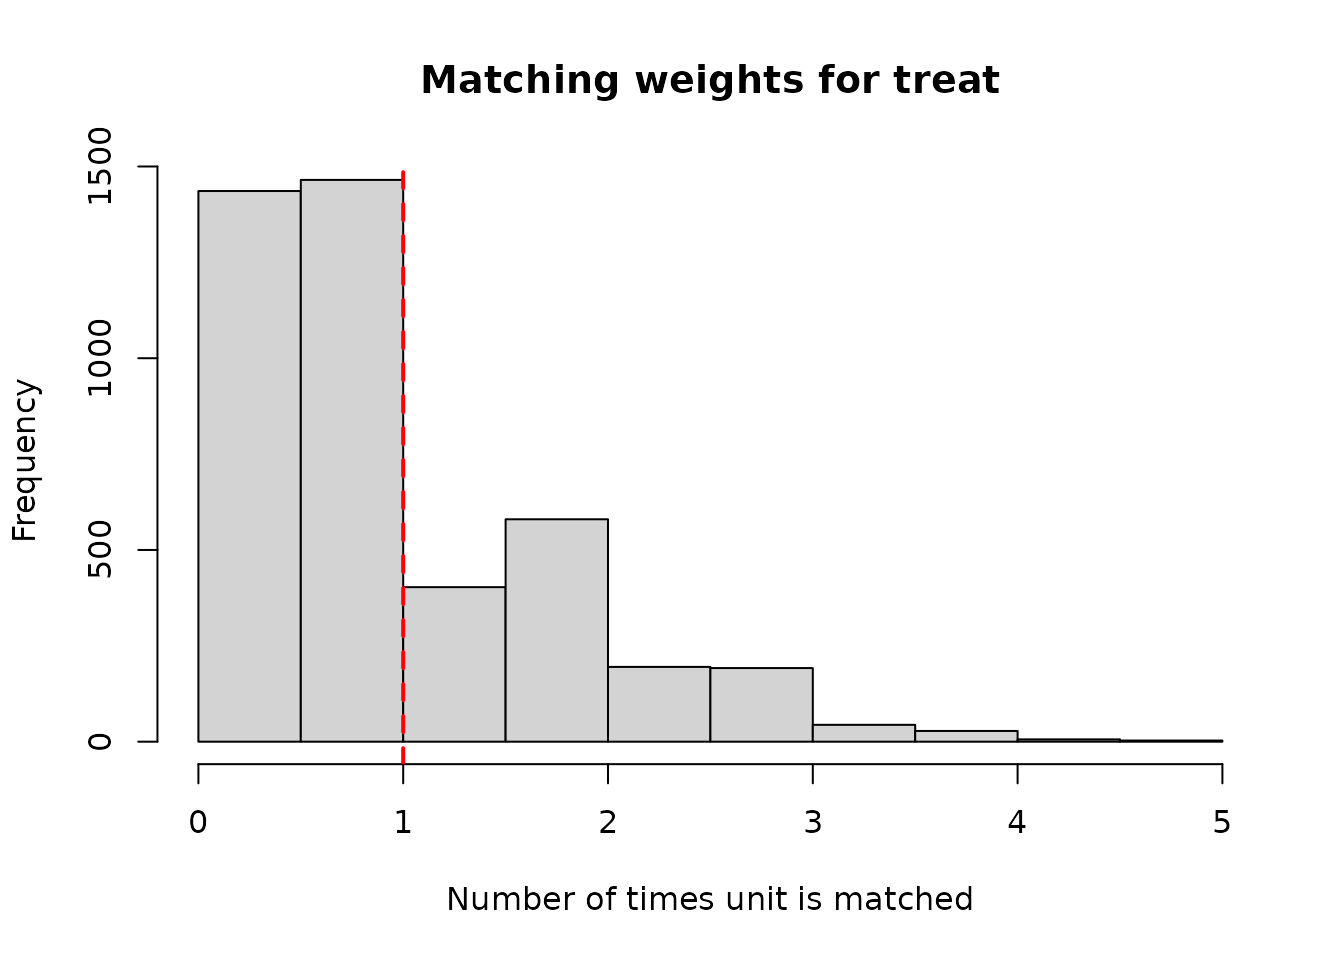
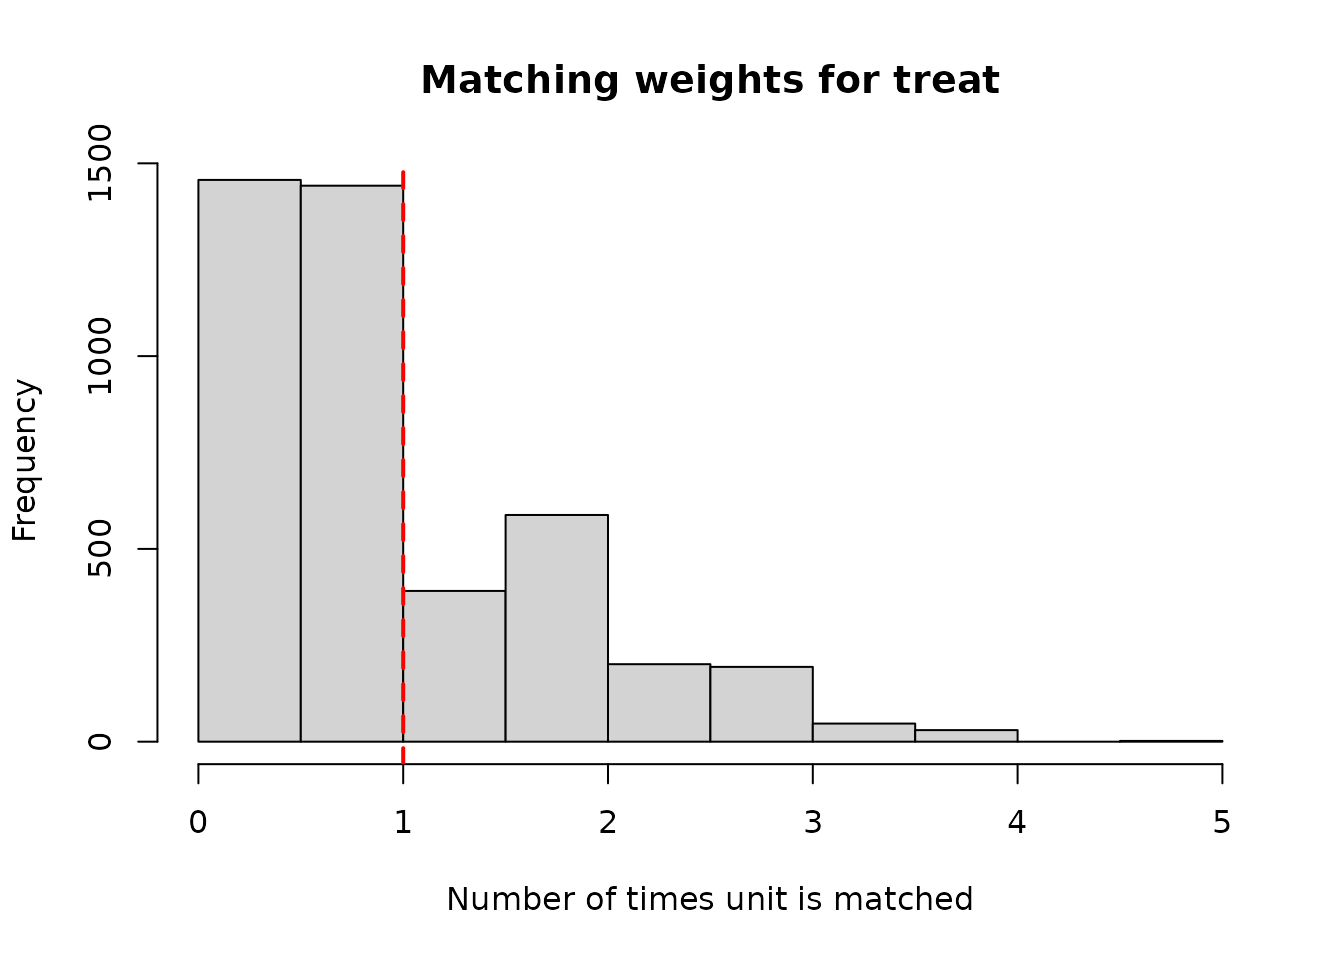
Built site for DirectEffects: 0.2.9000@1afdf37

diff --git a/index.html b/index.html
@@ -5,14 +5,14 @@
 <meta charset="utf-8">
 <meta http-equiv="X-UA-Compatible" content="IE=edge">
 <meta name="viewport" content="width=device-width, initial-scale=1, shrink-to-fit=no">
-<meta name="description" content="A set of functions to estimate the controlled direct effect of treatment fixing a potential mediator to a specific value. Implements the sequential g-estimation estimator described in Vansteelandt (2009) &lt;doi:10.1097/EDE.0b013e3181b6f4c9&gt; and Acharya, Blackwell, and Sen (2016) &lt;doi:10.1017/S0003055416000216&gt; and the telescope matching estimator described in Blackwell and Strezhnev (2020) &lt;doi:10.1111/rssa.12759.  ">
+<meta name="description" content="A set of functions to estimate the controlled direct effect of treatment fixing a potential mediator to a specific value. Implements the sequential g-estimation estimator described in Vansteelandt (2009) &lt;doi:10.1097/EDE.0b013e3181b6f4c9&gt; and Acharya, Blackwell, and Sen (2016) &lt;doi:10.1017/S0003055416000216&gt; and the telescope matching estimator described in Blackwell and Strezhnev (2020) &lt;doi:10.1111/rssa.12759&gt;.  ">
 <title>Estimating Controlled Direct Effects for Explaining Causal Findings • DirectEffects</title>
 <script src="deps/jquery-3.6.0/jquery-3.6.0.min.js"></script><meta name="viewport" content="width=device-width, initial-scale=1, shrink-to-fit=no">
 <link href="deps/bootstrap-5.1.0/bootstrap.min.css" rel="stylesheet">
 <script src="deps/bootstrap-5.1.0/bootstrap.bundle.min.js"></script><!-- Font Awesome icons --><link rel="stylesheet" href="https://cdnjs.cloudflare.com/ajax/libs/font-awesome/5.12.1/css/all.min.css" integrity="sha256-mmgLkCYLUQbXn0B1SRqzHar6dCnv9oZFPEC1g1cwlkk=" crossorigin="anonymous">
 <link rel="stylesheet" href="https://cdnjs.cloudflare.com/ajax/libs/font-awesome/5.12.1/css/v4-shims.min.css" integrity="sha256-wZjR52fzng1pJHwx4aV2AO3yyTOXrcDW7jBpJtTwVxw=" crossorigin="anonymous">
 <!-- bootstrap-toc --><script src="https://cdn.rawgit.com/afeld/bootstrap-toc/v1.0.1/dist/bootstrap-toc.min.js"></script><!-- headroom.js --><script src="https://cdnjs.cloudflare.com/ajax/libs/headroom/0.11.0/headroom.min.js" integrity="sha256-AsUX4SJE1+yuDu5+mAVzJbuYNPHj/WroHuZ8Ir/CkE0=" crossorigin="anonymous"></script><script src="https://cdnjs.cloudflare.com/ajax/libs/headroom/0.11.0/jQuery.headroom.min.js" integrity="sha256-ZX/yNShbjqsohH1k95liqY9Gd8uOiE1S4vZc+9KQ1K4=" crossorigin="anonymous"></script><!-- clipboard.js --><script src="https://cdnjs.cloudflare.com/ajax/libs/clipboard.js/2.0.6/clipboard.min.js" integrity="sha256-inc5kl9MA1hkeYUt+EC3BhlIgyp/2jDIyBLS6k3UxPI=" crossorigin="anonymous"></script><!-- search --><script src="https://cdnjs.cloudflare.com/ajax/libs/fuse.js/6.4.6/fuse.js" integrity="sha512-zv6Ywkjyktsohkbp9bb45V6tEMoWhzFzXis+LrMehmJZZSys19Yxf1dopHx7WzIKxr5tK2dVcYmaCk2uqdjF4A==" crossorigin="anonymous"></script><script src="https://cdnjs.cloudflare.com/ajax/libs/autocomplete.js/0.38.0/autocomplete.jquery.min.js" integrity="sha512-GU9ayf+66Xx2TmpxqJpliWbT5PiGYxpaG8rfnBEk1LL8l1KGkRShhngwdXK1UgqhAzWpZHSiYPc09/NwDQIGyg==" crossorigin="anonymous"></script><script src="https://cdnjs.cloudflare.com/ajax/libs/mark.js/8.11.1/mark.min.js" integrity="sha512-5CYOlHXGh6QpOFA/TeTylKLWfB3ftPsde7AnmhuitiTX4K5SqCLBeKro6sPS8ilsz1Q4NRx3v8Ko2IBiszzdww==" crossorigin="anonymous"></script><!-- pkgdown --><script src="pkgdown.js"></script><meta property="og:title" content="Estimating Controlled Direct Effects for Explaining Causal Findings">
-<meta property="og:description" content="A set of functions to estimate the controlled direct effect of treatment fixing a potential mediator to a specific value. Implements the sequential g-estimation estimator described in Vansteelandt (2009) &lt;doi:10.1097/EDE.0b013e3181b6f4c9&gt; and Acharya, Blackwell, and Sen (2016) &lt;doi:10.1017/S0003055416000216&gt; and the telescope matching estimator described in Blackwell and Strezhnev (2020) &lt;doi:10.1111/rssa.12759.  ">
+<meta property="og:description" content="A set of functions to estimate the controlled direct effect of treatment fixing a potential mediator to a specific value. Implements the sequential g-estimation estimator described in Vansteelandt (2009) &lt;doi:10.1097/EDE.0b013e3181b6f4c9&gt; and Acharya, Blackwell, and Sen (2016) &lt;doi:10.1017/S0003055416000216&gt; and the telescope matching estimator described in Blackwell and Strezhnev (2020) &lt;doi:10.1111/rssa.12759&gt;.  ">
 <!-- mathjax --><script src="https://cdnjs.cloudflare.com/ajax/libs/mathjax/2.7.5/MathJax.js" integrity="sha256-nvJJv9wWKEm88qvoQl9ekL2J+k/RWIsaSScxxlsrv8k=" crossorigin="anonymous"></script><script src="https://cdnjs.cloudflare.com/ajax/libs/mathjax/2.7.5/config/TeX-AMS-MML_HTMLorMML.js" integrity="sha256-84DKXVJXs0/F8OTMzX4UR909+jtl4G7SPypPavF+GfA=" crossorigin="anonymous"></script><!--[if lt IE 9]>
 <script src="https://oss.maxcdn.com/html5shiv/3.7.3/html5shiv.min.js"></script>
 <script src="https://oss.maxcdn.com/respond/1.4.2/respond.min.js"></script>
@@ -66,7 +66,8 @@
   </div>
 </nav><div class="container template-home">
 <div class="row">
-  <main id="main" class="col-md-9"><div class="section level2">
+  <main id="main" class="col-md-9"><p><br></p>
+<div class="section level2">
 <h2 id="overview">Overview<a class="anchor" aria-label="anchor" href="#overview"></a>
 </h2>
 <p><!-- badges: start --> <a href="https://github.com/mattblackwell/DirectEffects/actions" class="external-link"><img src="https://github.com/mattblackwell/DirectEffects/workflows/R-CMD-check/badge.svg" alt="R-CMD-check"></a> <!-- badges: end --></p>
@@ -89,9 +90,9 @@
 <p>The main functions for estimating CDEs in DirectEffects are:</p>
 <ul>
 <li>
-<a href="articles/DirectEffects.html"><code>sequential_g()</code></a>: estimate controlled direct effects using two-stage linear models.</li>
+<a href="https://mattblackwell.github.io/DirectEffects/articles/DirectEffects.html"><code>sequential_g()</code></a>: estimate controlled direct effects using two-stage linear models.</li>
 <li>
-<a href="articles/telescope_matching.html"><code>telescope_match()</code></a>: estimated controlled direct effects using a two-stage matching procedure with bias correction.</li>
+<a href="https://mattblackwell.github.io/DirectEffects/articles/telescope_matching.html"><code>telescope_match()</code></a>: estimated controlled direct effects using a two-stage matching procedure with bias correction.</li>
 </ul>
 <p>DirectEffects also provides diagnostics for these two approaches, including sensitivity analyses and balance checks.</p>
 </div>
@@ -123,7 +124,7 @@
 <div class="developers">
 <h2 data-toc-skip>Developers</h2>
 <ul class="list-unstyled">
-<li>Matthew Blackwell <br><small class="roles"> Author, maintainer </small>  </li>
+<li>Matthew Blackwell <br><small class="roles"> Author, maintainer </small> <a href="https://orcid.org/0000-0002-3689-9527" target="orcid.widget" aria-label="ORCID" class="external-link"><span class="fab fa-orcid orcid" aria-hidden="true"></span></a> </li>
 <li>Avidit Acharya <br><small class="roles"> Author </small>  </li>
 <li>Maya Sen <br><small class="roles"> Author </small>  </li>
 <li>Shiro Kuriwaki <br><small class="roles"> Author </small>  </li>

diff --git a/articles/telescope_matching.html b/articles/telescope_matching.html
@@ -172,49 +172,49 @@ ACDE = E[Y_i(1, 0) - Y_i(0,0)]
 <span class="co">## </span>
 <span class="co">## Matching summary:</span>
 <span class="co">##          Term Matching Ratio L:1 N == 1 N == 0 Matched == 1 Matched == 0</span>
-<span class="co">## 1       treat                  3   2801   1551         2291         1544</span>
-<span class="co">## 2 work2year2q                  3   2559   1793         1358         1522</span>
+<span class="co">## 1       treat                  3   2801   1551         2278         1544</span>
+<span class="co">## 2 work2year2q                  3   2559   1793         1362         1525</span>
 <span class="co">## </span>
 <span class="co">## </span>
 <span class="co">## Summary of units matching contributions:</span>
-<span class="co">##                   Min.   1st Qu.    Median Mean  3rd Qu.       Max.</span>
-<span class="co">## treat                0 0.3333333 0.6666667    1 1.333333   4.666667</span>
-<span class="co">## treat:work2year2q    0 0.0000000 0.3333333    1 1.000000 117.222222</span>
-<span class="co">## work2year2q          0 0.0000000 0.3333333    1 1.333333  75.000000</span>
+<span class="co">##                   Min.   1st Qu.    Median Mean  3rd Qu.      Max.</span>
+<span class="co">## treat                0 0.3333333 0.6666667    1 1.333333   5.00000</span>
+<span class="co">## treat:work2year2q    0 0.0000000 0.3333333    1 1.000000 116.11111</span>
+<span class="co">## work2year2q          0 0.0000000 0.3333333    1 1.333333  68.66667</span>
 <span class="co">## </span>
 <span class="co">## </span>
 <span class="co">## Estimated controlled direct effects of treat:</span>
 <span class="co">##                   work2year2q Estimate Estimate (no BC) Std. Err.</span>
-<span class="co">## (1, 0) vs. (0, 0)           0 -0.09609         -0.08665   0.05321</span>
-<span class="co">## (1, 1) vs. (0, 1)           1  0.03850          0.03848   0.02213</span></code></pre>
+<span class="co">## (1, 0) vs. (0, 0)           0 -0.09181         -0.08318   0.05275</span>
+<span class="co">## (1, 1) vs. (0, 1)           1  0.03105          0.03102   0.02246</span></code></pre>
 <div class="sourceCode" id="cb11"><pre class="downlit sourceCode r">
 <code class="sourceCode R"><span class="co"># The coefficients + SE can be accessed directly as well</span>
 <span class="va">tm_out</span><span class="op">$</span><span class="va">tau</span> <span class="co"># Point estimate</span></code></pre></div>
-<pre><code><span class="co">## [1] -0.09609438  0.03850302</span></code></pre>
+<pre><code><span class="co">## [1] -0.09181338  0.03105208</span></code></pre>
 <div class="sourceCode" id="cb13"><pre class="downlit sourceCode r">
 <code class="sourceCode R"><span class="va">tm_out</span><span class="op">$</span><span class="va">tau_se</span> <span class="co">#Standard error</span></code></pre></div>
-<pre><code><span class="co">## [1] 0.05320912 0.02213413</span></code></pre>
+<pre><code><span class="co">## [1] 0.05275171 0.02246048</span></code></pre>
 <p>Additional diagnostics can be conducted by calling the <code><a href="../reference/balance.tmatch.html">balance.tmatch()</a></code> function on the returned <code>tmatch</code> object to assess the change in pre-/post-matching covariate balance in both the first and second stages.</p>
 <div class="sourceCode" id="cb15"><pre class="downlit sourceCode r">
 <code class="sourceCode R"><span class="co">## Assess mediator balance on selected pre- and post- treatment covariates</span>
 <span class="fu"><a href="../reference/balance.tmatch.html">balance.tmatch</a></span><span class="op">(</span><span class="va">tm_out</span>, vars <span class="op">=</span> <span class="va">work2year2q</span> <span class="op">~</span> <span class="va">schobef</span> <span class="op">+</span> <span class="va">emplq4</span>,
                data <span class="op">=</span> <span class="va">jobcorps_female</span><span class="op">)</span></code></pre></div>
 <pre><code><span class="co">##         variable  before_0  before_1   after_0   after_1 before_sd  before_diff</span>
-<span class="co">## schobef  schobef 0.6352482 0.6287612 0.7049632 0.6314338 0.4824714 -0.006486953</span>
-<span class="co">## emplq4    emplq4 0.1996654 0.7198124 0.4775582 0.5058977 0.5000270  0.520147061</span>
+<span class="co">## schobef  schobef 0.6352482 0.6287612 0.7044271 0.6314338 0.4824714 -0.006486953</span>
+<span class="co">## emplq4    emplq4 0.1996654 0.7198124 0.4776348 0.5057445 0.5000270  0.520147061</span>
 <span class="co">##         before_std_diff  after_diff after_std_diff</span>
-<span class="co">## schobef     -0.01344526 -0.07352941    -0.15240160</span>
-<span class="co">## emplq4       1.04023787  0.02833946     0.05667586</span></code></pre>
+<span class="co">## schobef     -0.01344526 -0.07299326    -0.15129034</span>
+<span class="co">## emplq4       1.04023787  0.02810968     0.05621632</span></code></pre>
 <div class="sourceCode" id="cb17"><pre class="downlit sourceCode r">
 <code class="sourceCode R"><span class="co">## Assess treatment balance on selected pre-treatment covariates</span>
 <span class="fu"><a href="../reference/balance.tmatch.html">balance.tmatch</a></span><span class="op">(</span><span class="va">tm_out</span>, vars <span class="op">=</span> <span class="va">treat</span> <span class="op">~</span> <span class="va">trainyrbef</span> <span class="op">+</span> <span class="va">hhsize</span>,
                data <span class="op">=</span> <span class="va">jobcorps_female</span><span class="op">)</span></code></pre></div>
 <pre><code><span class="co">##              variable   before_0   before_1    after_0    after_1 before_sd</span>
 <span class="co">## trainyrbef trainyrbef 0.01676338 0.01713674 0.01700368 0.01700368 0.1292996</span>
-<span class="co">## hhsize         hhsize 4.54094133 4.53802213 4.53776042 4.54618566 2.2087850</span>
+<span class="co">## hhsize         hhsize 4.54094133 4.53802213 4.54204963 4.53186275 2.2087850</span>
 <span class="co">##              before_diff before_std_diff  after_diff after_std_diff</span>
-<span class="co">## trainyrbef  0.0003733584     0.002887544 0.000000000    0.000000000</span>
-<span class="co">## hhsize     -0.0029191932    -0.001321629 0.008425245    0.003814425</span></code></pre>
+<span class="co">## trainyrbef  0.0003733584     0.002887544  0.00000000    0.000000000</span>
+<span class="co">## hhsize     -0.0029191932    -0.001321629 -0.01018689   -0.004611987</span></code></pre>
 <p>Calling the <code><a href="../reference/plotDiag.tmatch.html">plotDiag.tmatch()</a></code> function will return a histogram of the number of times each unit is used as a match (<span class="math inline">\(K/L\)</span>) in either the first (mediator) stage or the second (treatment) stage.</p>
 <div class="sourceCode" id="cb19"><pre class="downlit sourceCode r">
 <code class="sourceCode R"><span class="co"># Number of times each unit is used as a match in the mediator (first) stage</span>

diff --git a/articles/DirectEffects.html b/articles/DirectEffects.html
@@ -210,14 +210,14 @@
 <span class="co">## Summary of bootstrapped coefficients: </span>
 <span class="co">## </span>
 <span class="co">##                           Estimate Std. Err.   t value     2.5 %  97.5 %</span>
-<span class="co">## (Intercept)               13.03967   4.71055   2.76819   4.66312 23.9332</span>
-<span class="co">## plow                      -5.12705   2.78384  -1.84171 -10.93401 -0.0791</span>
-<span class="co">## agricultural_suitability   4.52477   3.09550   1.46172  -1.73349  9.7554</span>
-<span class="co">## tropical_climate          -2.49692   2.27313  -1.09845  -6.96275  1.8230</span>
-<span class="co">## large_animals             -1.22817   5.00232  -0.24552 -11.92959  7.2430</span>
-<span class="co">## political_hierarchies      0.45004   1.12768   0.39908  -1.50762  2.4844</span>
-<span class="co">## economic_complexity       -0.17763   0.53680  -0.33090  -1.27670  0.8405</span>
-<span class="co">## rugged                    -0.30880   0.50938  -0.60623  -1.29622  0.5855</span></code></pre>
+<span class="co">## (Intercept)               12.68830   4.22683   3.00185   3.36103 19.9804</span>
+<span class="co">## plow                      -4.90288   2.52984  -1.93802 -10.31484 -0.0461</span>
+<span class="co">## agricultural_suitability   4.41084   3.32122   1.32808  -1.88211 10.5896</span>
+<span class="co">## tropical_climate          -2.10549   2.48625  -0.84685  -6.57257  3.0299</span>
+<span class="co">## large_animals             -1.14327   4.69751  -0.24338 -10.01702  7.6973</span>
+<span class="co">## political_hierarchies      0.45407   1.15845   0.39196  -1.54475  2.6155</span>
+<span class="co">## economic_complexity       -0.17131   0.53709  -0.31896  -1.10970  0.9211</span>
+<span class="co">## rugged                    -0.30589   0.51217  -0.59724  -1.33131  0.5541</span></code></pre>
 <p>The coefficient on the treatment variable (here, <code>plow</code>), is the estimate of the ACDE. The results show a negative ACDE of plows—in other words, the effect of the plough is negative for fixed income levels. This controlled direct effect is larger in magnitude than the estimated the total effect:</p>
 <p><img src="DirectEffects_files/figure-html/unnamed-chunk-9-1.png" width="672" style="display: block; margin: auto;"></p>
 </div>

diff --git a/reference/boots_g.html b/reference/boots_g.html
@@ -93,12 +93,12 @@ the model with bootstrap samples.</p>
 <span class="r-out co"><span class="r-pr">#&gt;</span> Summary of bootstrapped coefficients: </span>
 <span class="r-out co"><span class="r-pr">#&gt;</span> </span>
 <span class="r-out co"><span class="r-pr">#&gt;</span>                          Estimate Std. Err.  t value    2.5 %  97.5 %</span>
-<span class="r-out co"><span class="r-pr">#&gt;</span> (Intercept)              13.38650   4.40065  3.04194  5.22590 21.9826</span>
-<span class="r-out co"><span class="r-pr">#&gt;</span> plow                     -4.45139   1.83762 -2.42237 -8.22370 -0.9710</span>
-<span class="r-out co"><span class="r-pr">#&gt;</span> agricultural_suitability  4.38889   2.59756  1.68962 -0.73344  9.3080</span>
-<span class="r-out co"><span class="r-pr">#&gt;</span> tropical_climate         -2.90043   2.27790 -1.27329 -7.47657  1.5388</span>
-<span class="r-out co"><span class="r-pr">#&gt;</span> large_animals            -0.92590   3.85512 -0.24017 -8.70991  6.0758</span>
-<span class="r-out co"><span class="r-pr">#&gt;</span> rugged                   -0.34969   0.49578 -0.70534 -1.37576  0.6018</span>
+<span class="r-out co"><span class="r-pr">#&gt;</span> (Intercept)              13.00588   4.64692  2.79882  4.52723 22.2588</span>
+<span class="r-out co"><span class="r-pr">#&gt;</span> plow                     -4.42885   1.84837 -2.39608 -8.15945 -1.0985</span>
+<span class="r-out co"><span class="r-pr">#&gt;</span> agricultural_suitability  4.27893   2.48867  1.71937 -0.57298  9.0389</span>
+<span class="r-out co"><span class="r-pr">#&gt;</span> tropical_climate         -2.77231   2.41316 -1.14883 -7.69041  1.8268</span>
+<span class="r-out co"><span class="r-pr">#&gt;</span> large_animals            -0.61676   4.03505 -0.15285 -9.13419  6.1658</span>
+<span class="r-out co"><span class="r-pr">#&gt;</span> rugged                   -0.34584   0.49522 -0.69836 -1.32296  0.5941</span>
 <span class="r-out co"><span class="r-pr">#&gt;</span> </span>
 <span class="r-in"><span class="co"># }</span></span>
 </code></pre></div>

diff --git a/authors.html b/authors.html
@@ -53,7 +53,7 @@
       <h2>Authors</h2>
       
       <ul class="list-unstyled"><li>
-          <p><strong>Matthew Blackwell</strong>. Author, maintainer. 
+          <p><strong>Matthew Blackwell</strong>. Author, maintainer. <a href="https://orcid.org/0000-0002-3689-9527" target="orcid.widget" aria-label="ORCID" class="external-link"><span class="fab fa-orcid orcid" aria-hidden="true"></span></a>
           </p>
         </li>
         <li>
@@ -84,14 +84,14 @@
 
       <p>Blackwell M, Acharya A, Sen M, Kuriwaki S, Brown J, Strezhnev A (2021).
 <em>DirectEffects: Estimating Controlled Direct Effects for Explaining Causal Findings</em>.
-R package version 0.2.9000, <a href="https://www.mattblackwell.org/software/direct-effects/" class="external-link">https://www.mattblackwell.org/software/direct-effects/</a>. 
+R package version 0.2.9000, <a href="https://mattblackwell.github.io/DirectEffects">https://mattblackwell.github.io/DirectEffects</a>. 
 </p>
       <pre>@Manual{,
   title = {DirectEffects: Estimating Controlled Direct Effects for Explaining Causal Findings},
   author = {Matthew Blackwell and Avidit Acharya and Maya Sen and Shiro Kuriwaki and Jacob Brown and Anton Strezhnev},
   year = {2021},
   note = {R package version 0.2.9000},
-  url = {https://www.mattblackwell.org/software/direct-effects/},
+  url = {https://mattblackwell.github.io/DirectEffects},
 }</pre>
     </div>
   </main><aside class="col-md-3"><nav id="toc"><h2>On this page</h2>

diff --git a/reference/boots_tm.html b/reference/boots_tm.html
@@ -110,8 +110,8 @@ ACDEs in <code>obj$tau</code>.</p>
 <span class="r-in"></span>
 <span class="r-in"><span class="va">out.boots</span></span>
 <span class="r-out co"><span class="r-pr">#&gt;</span>         ci_low     ci_high</span>
-<span class="r-out co"><span class="r-pr">#&gt;</span> 1 -0.196650378 0.009551949</span>
-<span class="r-out co"><span class="r-pr">#&gt;</span> 2 -0.007941822 0.081759619</span>
+<span class="r-out co"><span class="r-pr">#&gt;</span> 1 -0.199422077 0.004865886</span>
+<span class="r-out co"><span class="r-pr">#&gt;</span> 2 -0.009555339 0.080015482</span>
 <span class="r-in"><span class="co"># }</span></span>
 </code></pre></div>
     </div>
